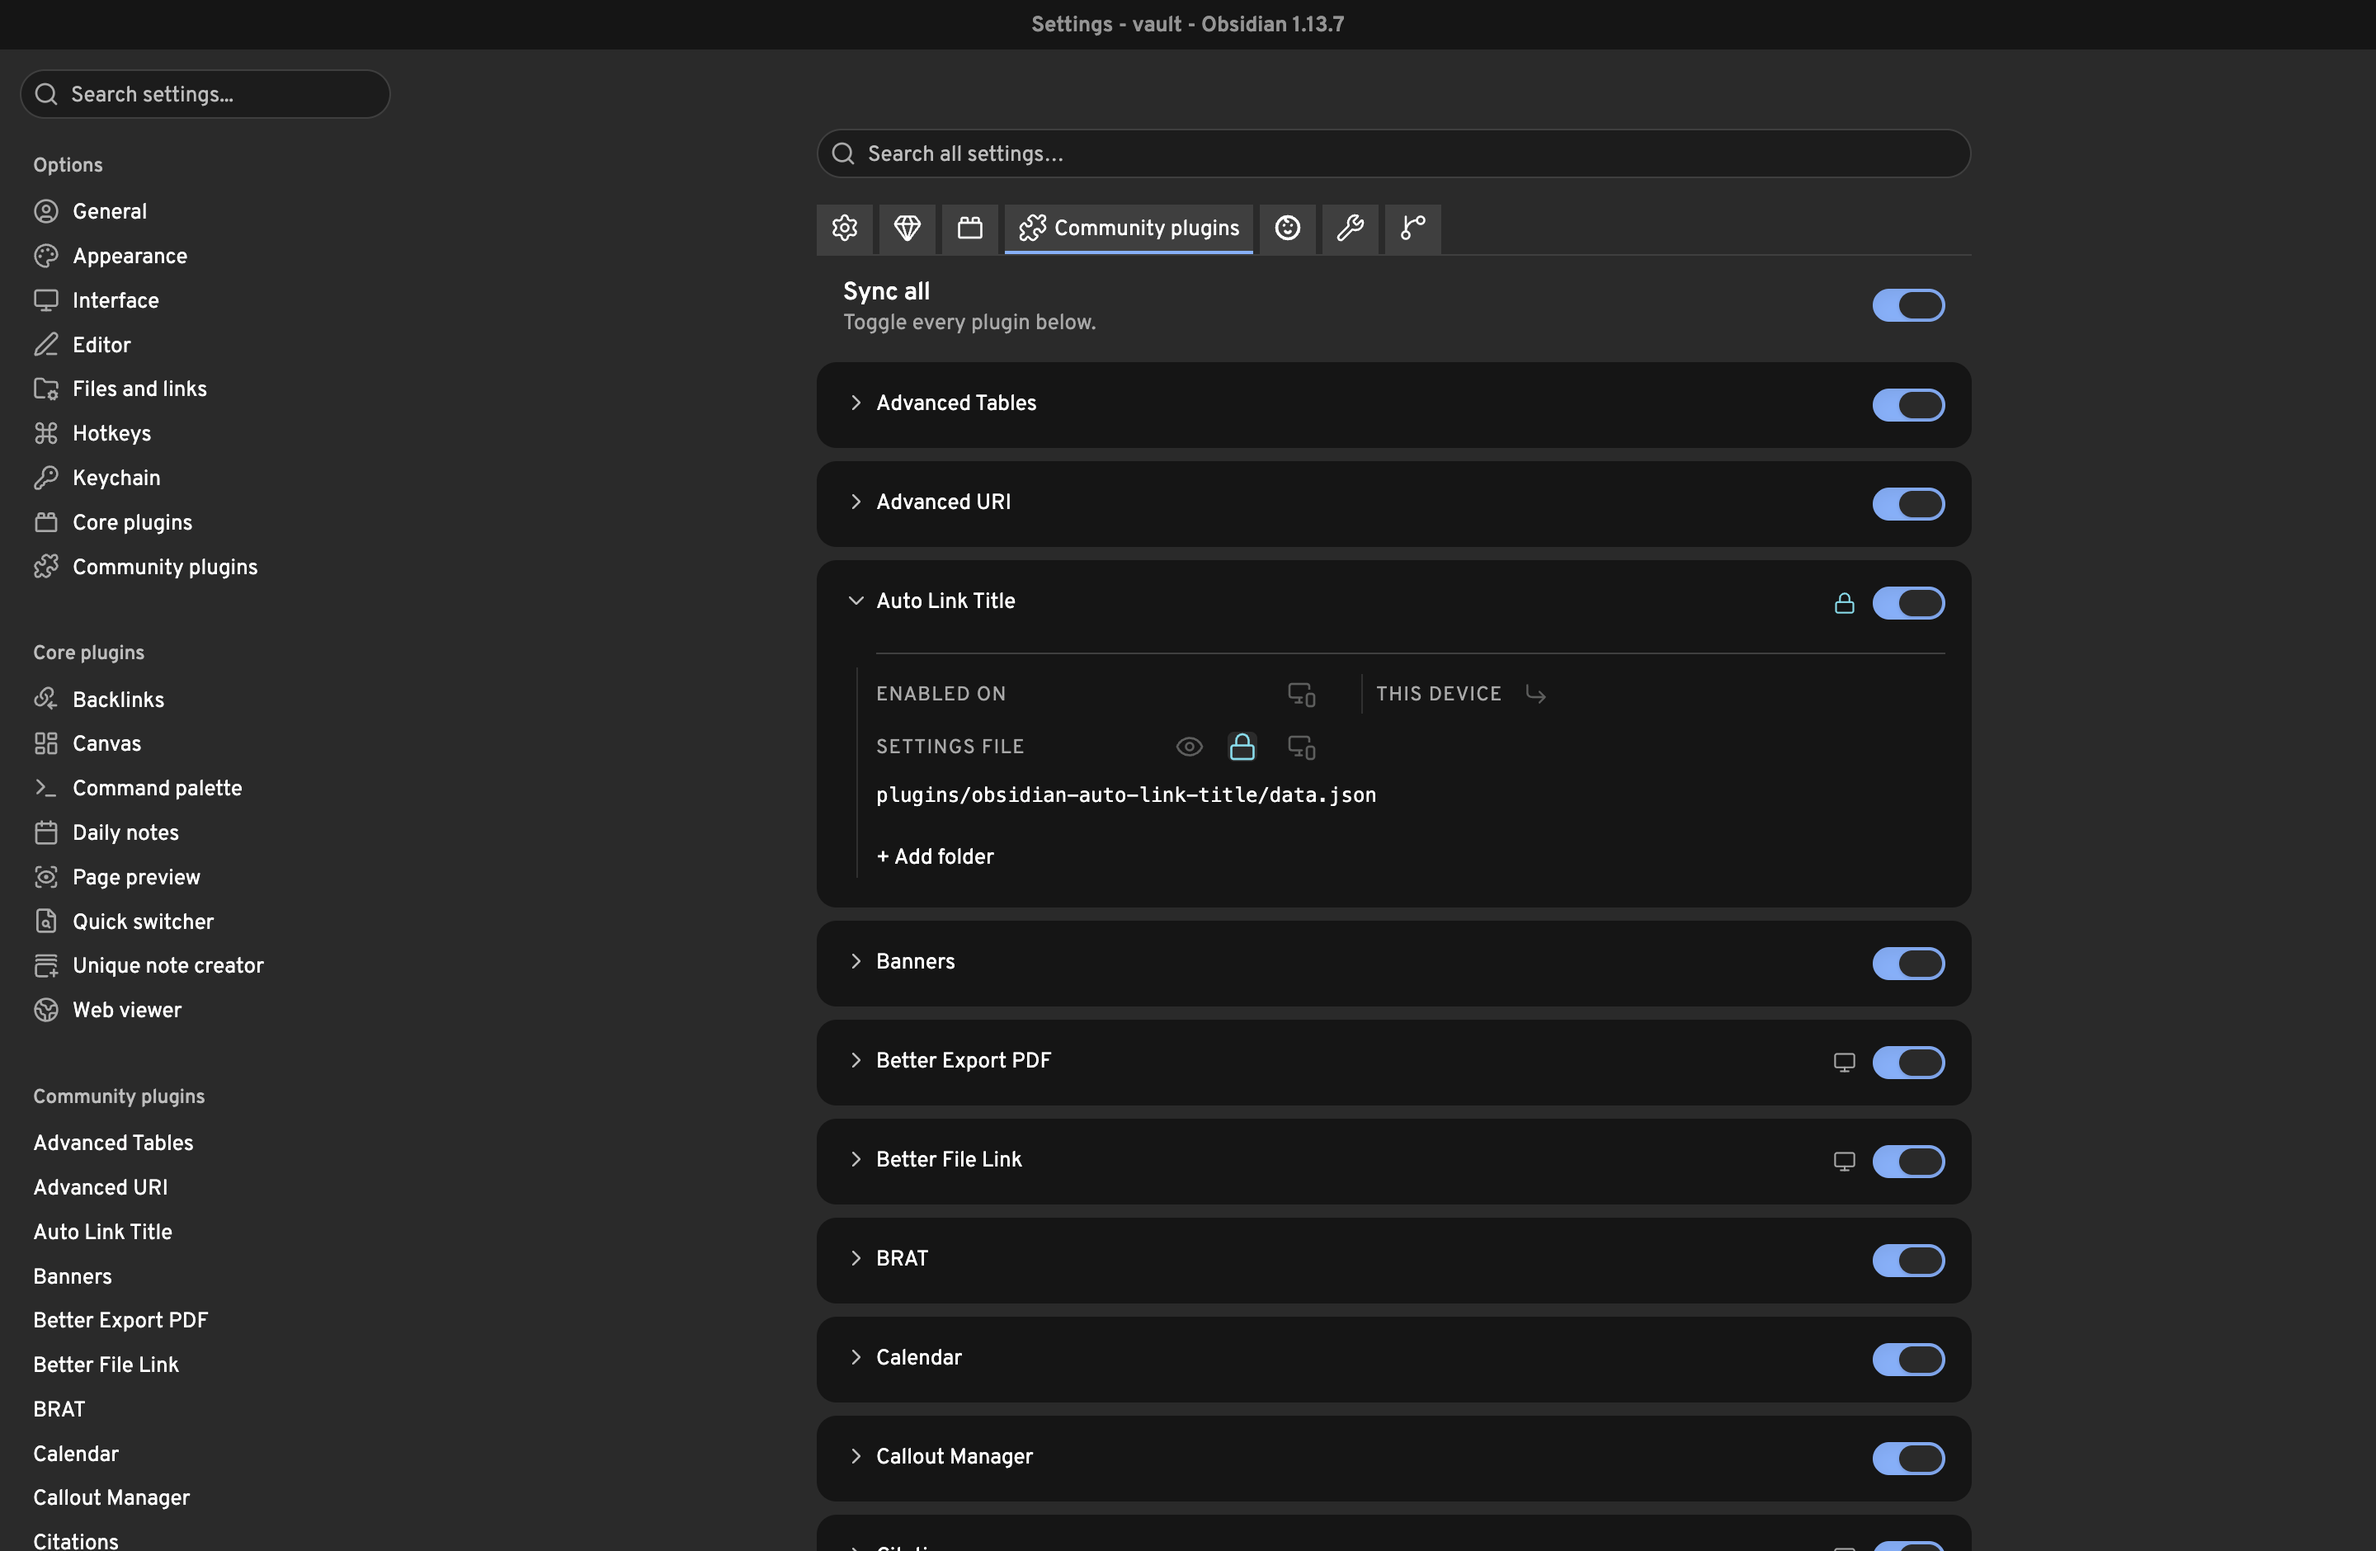
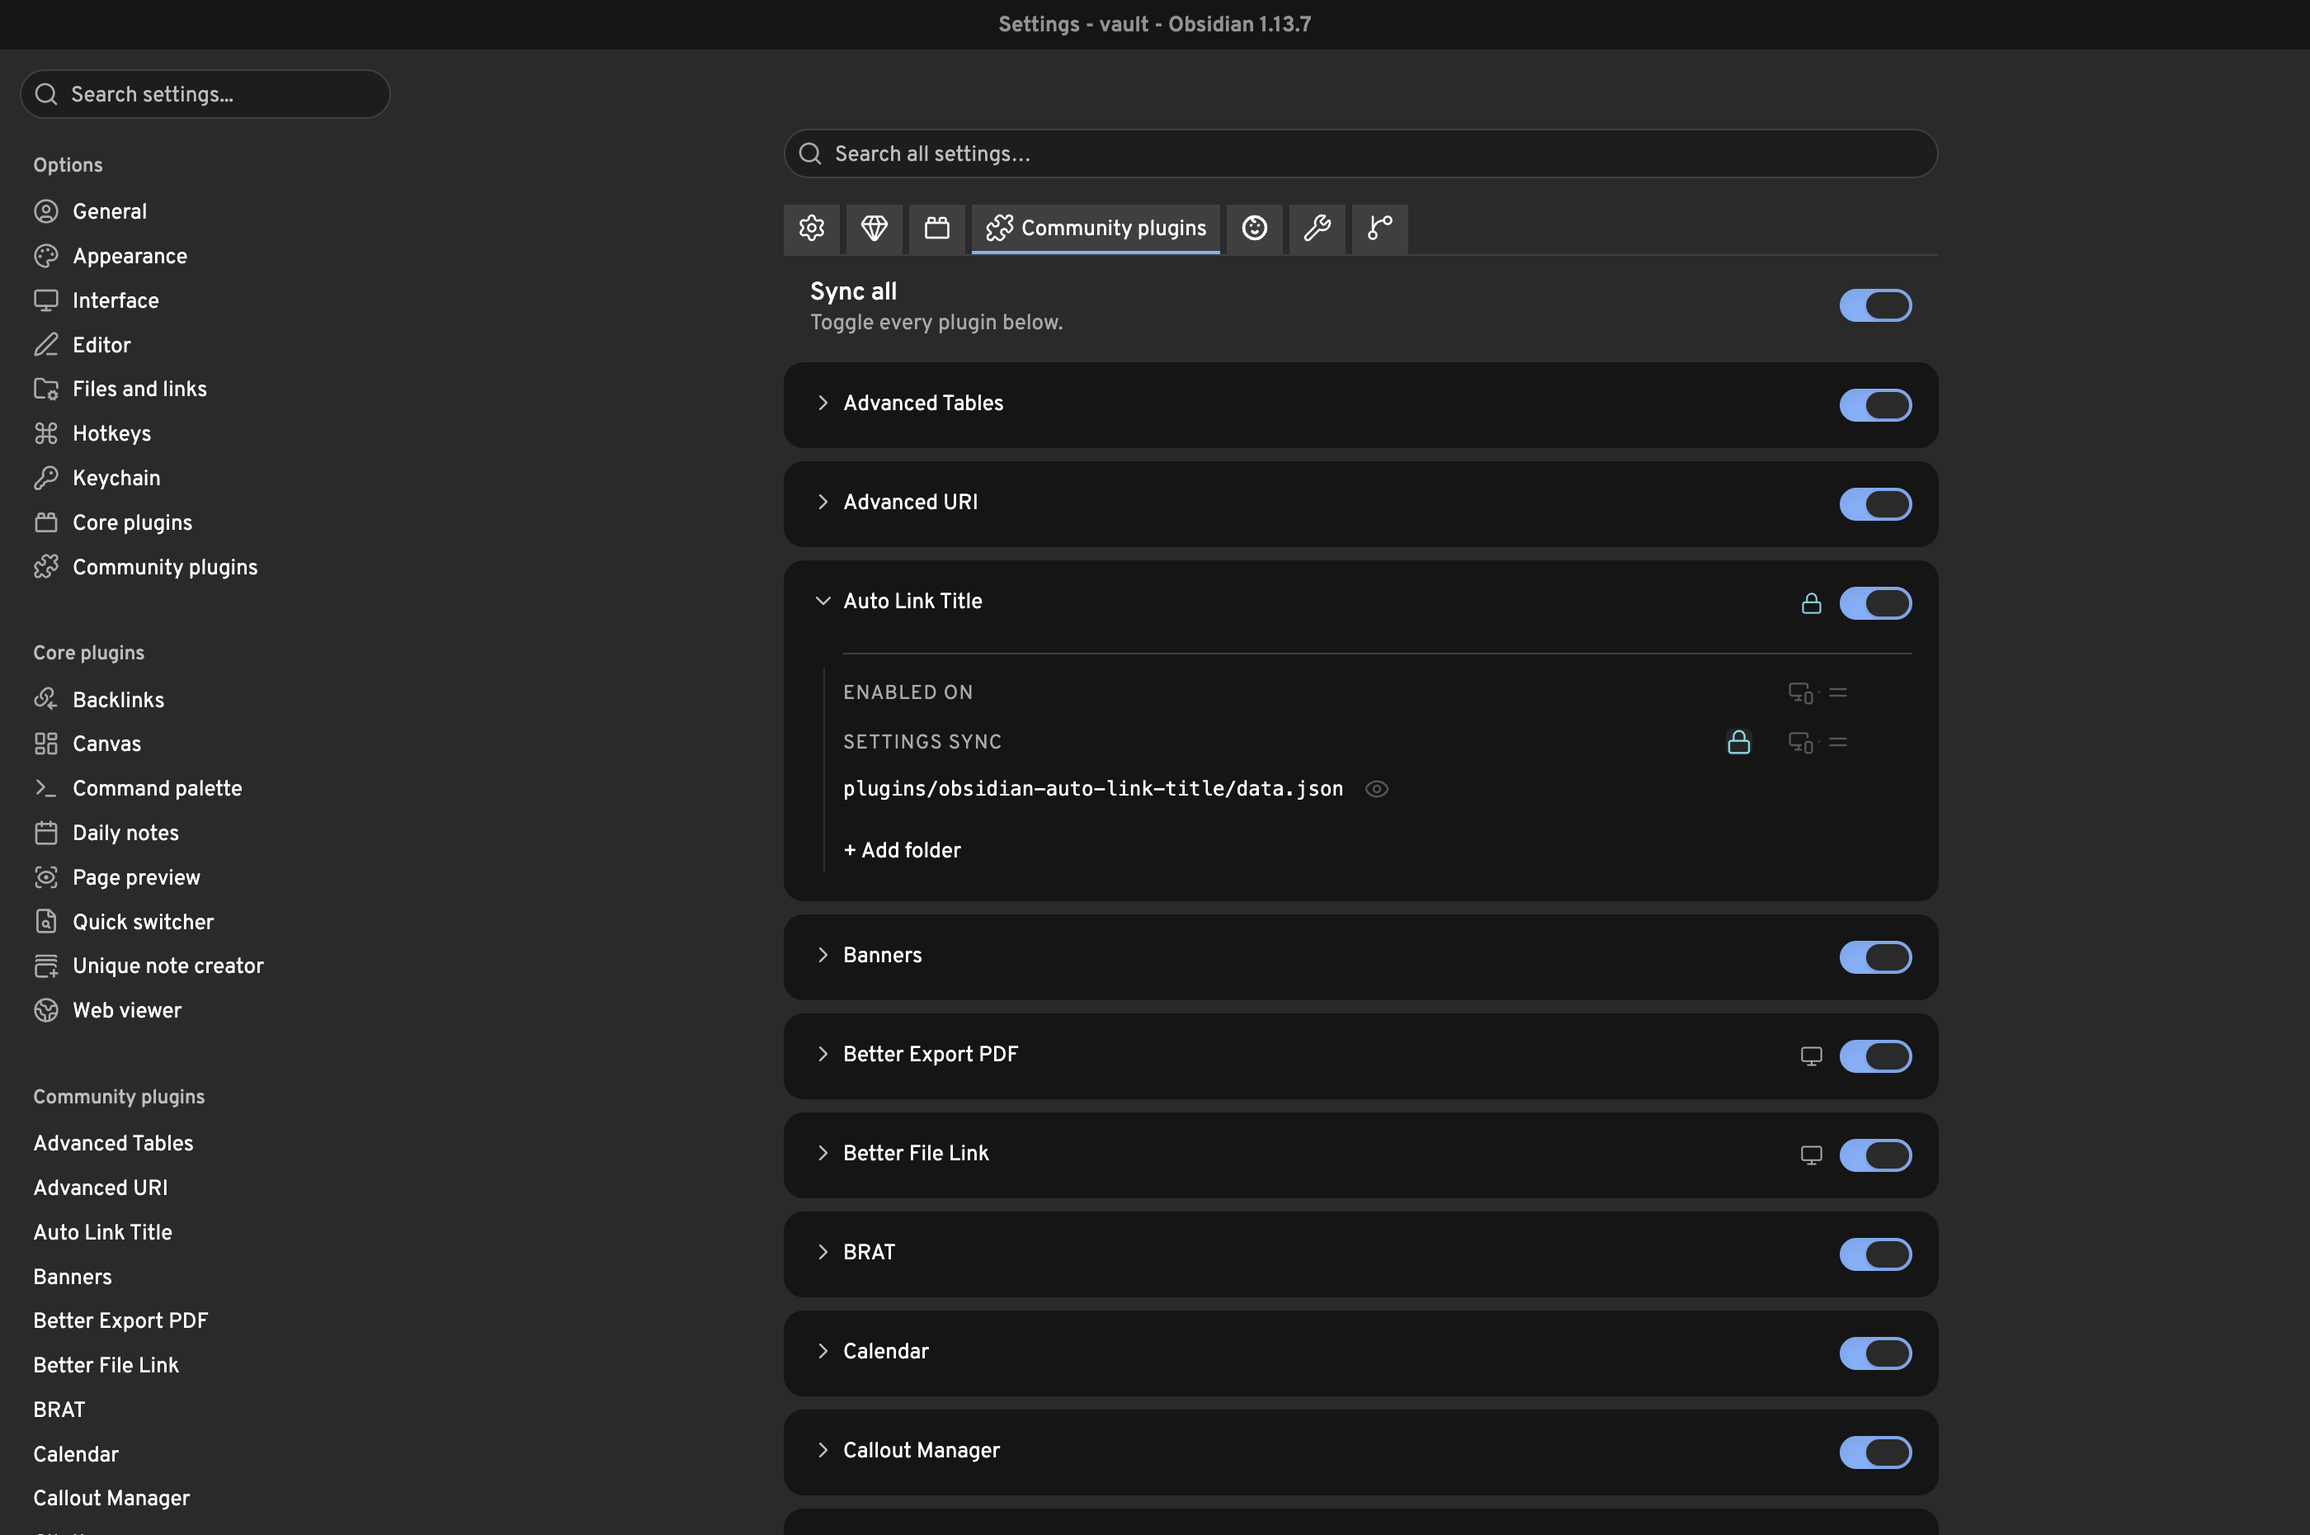
docs: reshoot both README screenshots on the current build
Both were taken on 2.23.0 release day, before this whole round. They showed
the two-segment row with its `THIS DEVICE` eyebrow, the old `SETTINGS FILE`
label, controls stranded mid-card, the FILES row's three separate marks, and
no availability folds.

The Sync Center shot also carried the counting bug on its face: sidebar
`↑14 ○32` sitting beside filter pills reading `To capture 13` /
`No settings yet 41`. The new one has all four surfaces — header, sidebar,
pills, status bar — reading the same numbers, and an amber
`9 disabled on this device` fold where there was nothing before.

The settings shot keeps the old composition deliberately (Community plugins
tab, Auto Link Title expanded) so the difference is the UI and not the
framing: `SETTINGS SYNC` where it said `SETTINGS FILE`, no eyebrow, and the
controls out on the card's own toggle rail.

Shot in `dev/vault`, the gitignored demo vault the originals used — no real
paths, names or machines in frame.

Also: the README's upgrade warning said "This release moves the settings to
a new format". That was true when 2.23.0 was the release; naming the version
keeps it true.

diff --git a/README.md b/README.md
@@ -11,7 +11,7 @@ Selective, on-demand sync of Obsidian settings — hotkeys, CSS snippets, themes
 
 > [!IMPORTANT]
 > **Update every device before any of them captures or pulls again.**
-> This release moves the settings to a new format, and the move is one way. A device still on **2.21.0** or **2.22.0** meets the new format, refuses it with a plain message and changes nothing. A device on **2.20.0 or earlier resets its Config Sync settings to defaults** — that one cannot be fixed afterwards. Update Config Sync everywhere first, then carry on as usual.
+> **2.23.0** moved the settings to a new format, and the move is one way. A device still on **2.21.0** or **2.22.0** meets the new format, refuses it with a plain message and changes nothing. A device on **2.20.0 or earlier resets its Config Sync settings to defaults** — that one cannot be fixed afterwards. Update Config Sync everywhere first, then carry on as usual.
 > A plugin nobody ever set a rule for now follows the shared on/off list, once that list itself is synced — so **the first sync after upgrading may turn some plugins on or off**, converging whatever differences had silently built up between your devices. See [Updating from 2.21.0 and earlier](docs/GUIDE.md#updating-from-2210-and-earlier).
 
 ![Sync Center](docs/assets/sync-panel.png)

diff --git a/README.zh.md b/README.zh.md
@@ -11,7 +11,7 @@
 
 > [!IMPORTANT]
 > **在任何一台设备再次 capture 或 pull 之前，先把所有设备都更新到本版本。**
-> 本次发布把设置换成了新的格式，而且是单向的。仍停留在 **2.21.0** 或 **2.22.0** 的设备遇到新格式会明确拒绝并给出提示，什么都不会改动；而 **2.20.0 或更早**的设备会把 Config Sync 的设置**重置为默认值**——这一条事后无法补救。请先在所有设备上更新 Config Sync，然后照常使用。
+> **2.23.0** 把设置换成了新的格式，而且是单向的。仍停留在 **2.21.0** 或 **2.22.0** 的设备遇到新格式会明确拒绝并给出提示，什么都不会改动；而 **2.20.0 或更早**的设备会把 Config Sync 的设置**重置为默认值**——这一条事后无法补救。请先在所有设备上更新 Config Sync，然后照常使用。
 > 一个你从未为它设过规则的插件，一旦共享名单本身开始同步，就会跟随它——因此**升级后的第一次同步可能会把某些插件打开或关闭**，把设备之间此前悄悄积累的差异收拢到一致。见[从 2.21.0 及更早版本更新](docs/GUIDE.md#updating-from-2210-and-earlier)。
 
 ![Sync Center](docs/assets/sync-panel.png)
